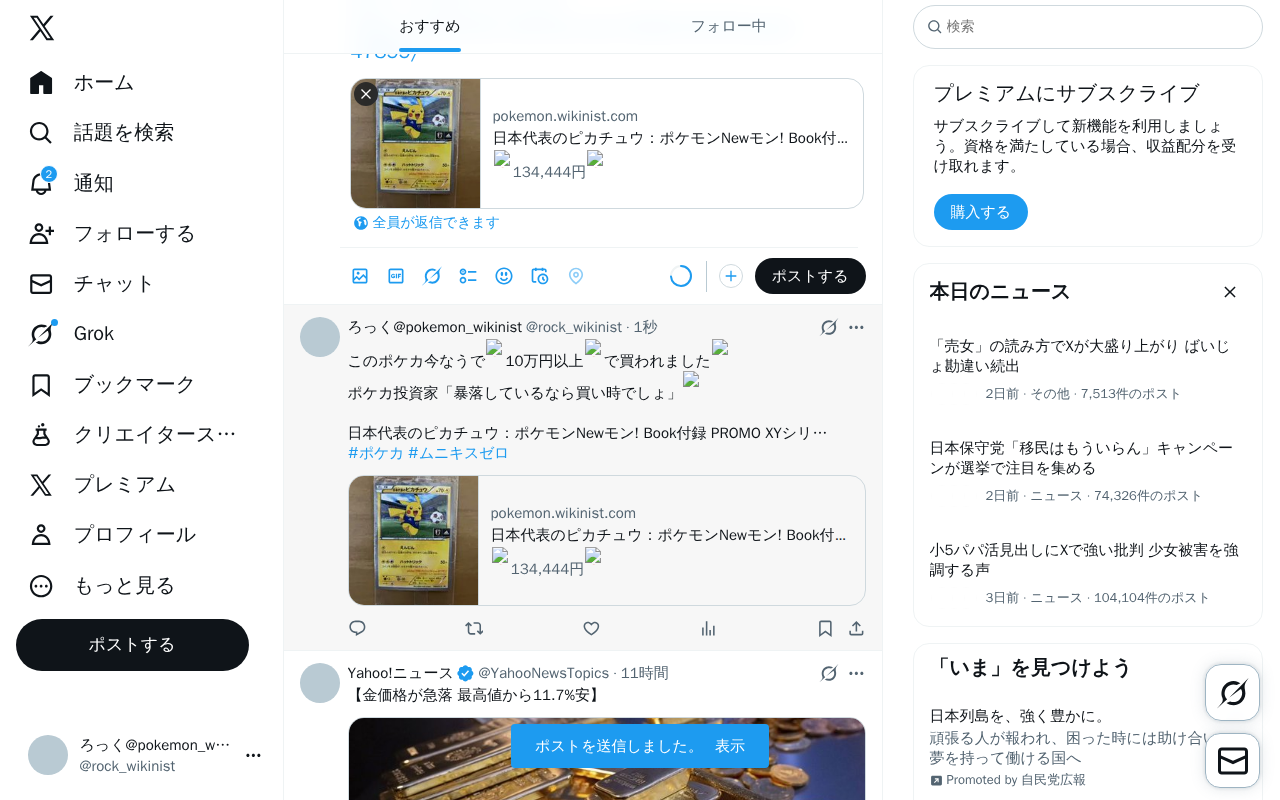
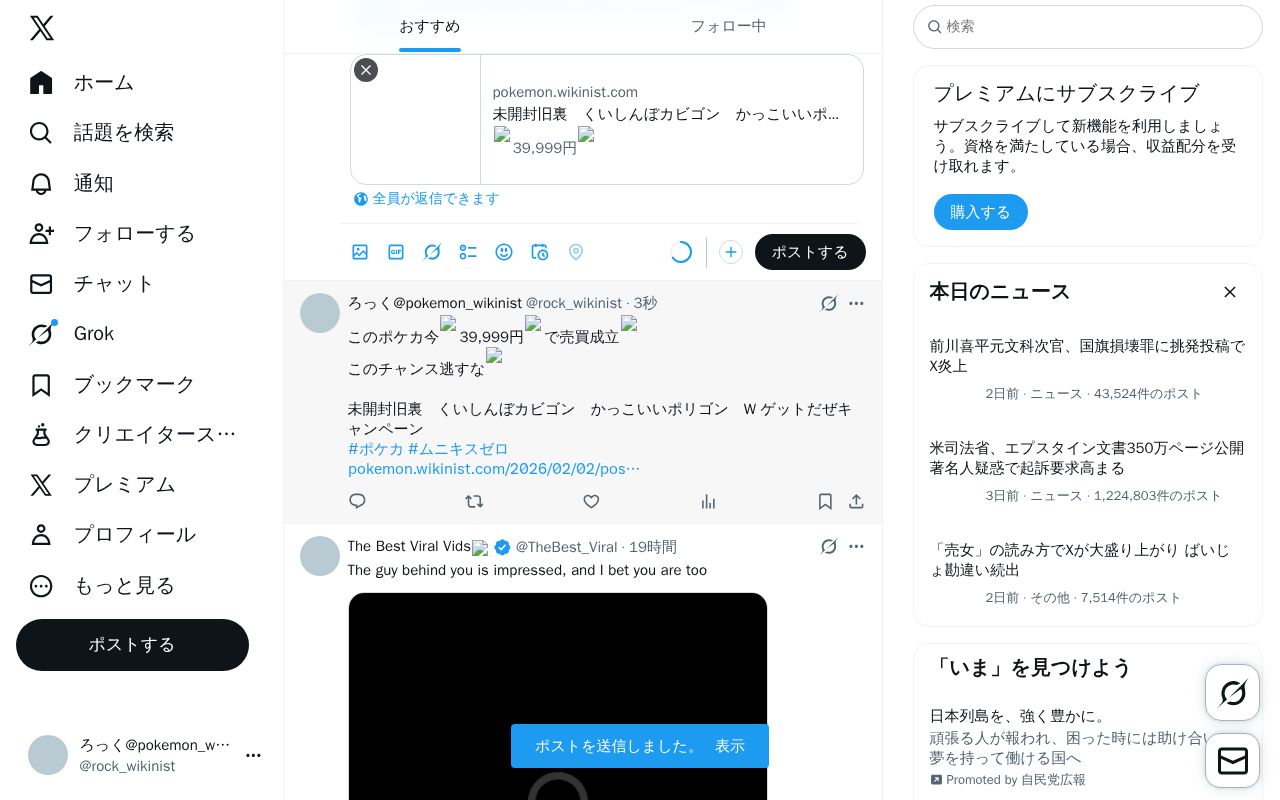
update system data

diff --git a/content/posts/test-pokemon-20260202-233637.md b/content/posts/test-pokemon-20260202-233637.md
@@ -1,0 +1,37 @@
+---
+title: "未開封旧裏　くいしんぼカビゴン　かっこいいポリゴン　W ゲットだぜキャンペーン"
+date: 2026-02-02T23:36:37+09:00
+description: "🔥39,999円🔥 メルカリで「未開封旧裏　くいしんぼカビゴン　かっこいいポリゴン　W ゲットだぜキャンペーン」が販売中！"
+amazon_url: "https://jp.mercari.com/item/m93530283606?afid=1391290753"
+categories: ["ポケモン"]
+tags: ["3万円以上", "カビゴン"]
+cover:
+  image: "https://static.mercdn.net/thumb/item/webp/m93530283606_1.jpg?1770042386"
+  hiddenInList: true
+  hiddenInSingle: true
+---
+
+<div class="image-and-buttons">
+    <div class="image-area" style="margin-bottom: 20px; text-align: center;">
+        <a href="https://jp.mercari.com/item/m93530283606?afid=1391290753" target="_blank" rel="nofollow sponsored noopener noreferrer">
+            <img src="https://static.mercdn.net/thumb/item/webp/m93530283606_1.jpg?1770042386" alt="39,999" style="max-width: 100%; border-radius: 8px; border: 1px solid #ddd;" />
+        </a>
+        <br><span style="font-size:1.5em;color:red;font-weight:bold;">🔥39,999円🔥</span>
+    </div>
+    <div class="link-buttons">
+        <a href="https://jp.mercari.com/item/m93530283606?afid=1391290753" target="_blank" rel="nofollow sponsored noopener noreferrer">
+            💎 商品状態を見る
+        </a>
+        <a href="https://jp.mercari.com/search?afid=1391290753&category_id=1289&keyword=%E6%9C%AA%E9%96%8B%E5%B0%81%E6%97%A7%E8%A3%8F%E3%80%80%E3%81%8F%E3%81%84%E3%81%97%E3%82%93%E3%81%BC%E3%82%AB%E3%83%93%E3%82%B4%E3%83%B3%E3%80%80%E3%81%8B%E3%81%A3%E3%81%93%E3%81%84%E3%81%84%E3%83%9D%E3%83%AA%E3%82%B4%E3%83%B3%E3%80%80W%20%E3%82%B2%E3%83%83%E3%83%88%E3%81%A0%E3%81%9C%E3%82%AD%E3%83%A3%E3%83%B3%E3%83%9A%E3%83%BC%E3%83%B3" target="_blank" rel="nofollow sponsored noopener noreferrer">
+            🔍 類似商品を見る
+        </a>
+        <a href="https://jp.mercari.com/search?afid=1391290753&brand_id=&category_id=1289&color_id=&item_condition_id=&item_types=&keyword=%E6%9C%AA%E9%96%8B%E5%B0%81%E6%97%A7%E8%A3%8F%E3%80%80%E3%81%8F%E3%81%84%E3%81%97%E3%82%93%E3%81%BC%E3%82%AB%E3%83%93%E3%82%B4%E3%83%B3%E3%80%80%E3%81%8B%E3%81%A3%E3%81%93%E3%81%84%E3%81%84%E3%83%9D%E3%83%AA%E3%82%B4%E3%83%B3%E3%80%80W%20%E3%82%B2%E3%83%83%E3%83%88%E3%81%A0%E3%81%9C%E3%82%AD%E3%83%A3%E3%83%B3%E3%83%9A%E3%83%BC%E3%83%B3&order=desc&shipping_method=&shipping_payer_id=&size_id=&sort=created_time&status=sold_out%2Ctrading" target="_blank" rel="nofollow sponsored noopener noreferrer">
+            📈 価格推移・履歴を見る
+        </a>
+    </div>
+</div>
+
+<p style="font-size:1.0em;color:#555;line-height:1.6;">
+「未開封旧裏　くいしんぼカビゴン　かっこいいポリゴン　W ゲットだぜキャンペーン」はメルカリに出品されました！<br>
+最新のポケモン情報は当サイトで随時更新中です。
+</p>
